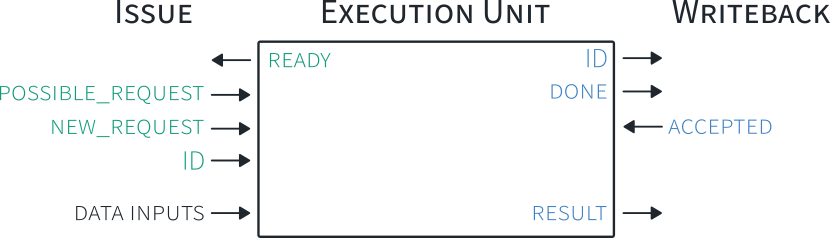
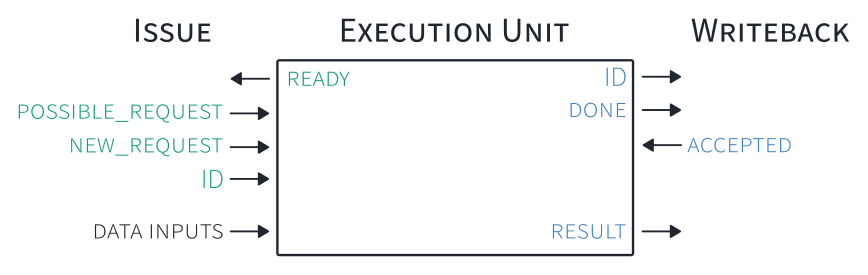
Add overview and unit documentation

Changed region(s): [[0.0, 0.0, 0.9337, 1.0], [0.7831, 0.0, 1.0, 0.1765], [0.1205, 0.0, 0.241, 0.1765]]

diff --git a/docs/custom-unit-support.md b/docs/custom-unit-support.md
@@ -1,0 +1,190 @@
+# Adding a Custom Unit
+All logic needed to add a your first custom unit is contained within:
+ - cva5/core/custom_unit.sv
+
+This includes decode, issue, and writeback support.  Additionally, the unit is already connected, and can be enabled by setting the bit:
+```
+INCLUDE_CUSTOM : 1
+```
+in the top-level config struct.  For this competition, the config structs are in `nexys_sim.sv` and `nexys_wrapper.sv` for simulation and hardware respectively.
+
+## custom_unit.sv
+The example unit within custom_unit.sv is complete, minimal example of how a custom unit can be implemented.  It has the following properties:
+ - It matches one instruction pattern at decode
+   - it uses rs1, rs2, and r2
+ - It has a latency of 2 cycles
+ - It has a throughput of 1 instruction every-other cycle
+ - It performs an add of rs1 and rs2 and writes the result to the register-file
+
+## Decode support
+The following snippet from `custom_unit.sv`, highlights how decode support is provided within CVA5.  Decode support is distributed among the execution units with each unit being responsible for determining if it is needed.  Additionally, each unit provides whether that instruction needs any register sources or whether it writes to the register-file.
+```
+    ////////////////////////////////////////////////////
+    //Decode
+    assign instruction = decode_stage.instruction;
+
+    //The following signals should be asserted when the decoded instruction
+    //is handled by this execution unit.
+    assign unit_needed = decode_stage.instruction inside {CUSTOM};
+    always_comb begin
+        uses_rs = '0;
+        uses_rs[RS1] = decode_stage.instruction inside {CUSTOM};
+        uses_rs[RS2] = decode_stage.instruction inside {CUSTOM};
+        uses_rd = decode_stage.instruction inside {CUSTOM};
+    end
+```
+To integrate with the decode logic, a bitvector describing the required bit values for your instruction must be used for the `unit_needed` signal.  You can look at `opcodes.sv` to see how these are defined for the existing RISC-V ISA.  As an example, the `SUB` and `CUSTOM` instruction are shown below:
+```
+    localparam [31:0] SUB = 32'b0100000??????????000?????0110011;
+    localparam [31:0] CUSTOM = 32'b?????????????????????????1111011;
+```
+
+## Unit Issue and Writeback interfaces
+The diagram below illustrates the issue and writeback interfaces for execution units within CVA5.
+![unit-interface](unit-interface.webp)
+
+Simple handshaking is used for both interfaces to control the flow of instructions.  The signal dependencies are as follows:
+ - `ready` before  `new_request`
+ - `done` before `ack`
+
+with the `new_request` and `ack` signals being driven by combinational logic.  It is permissable for the `ready` signal to depend on `ack` (see the multipler unit as an example of this).
+
+### Ordering
+There are no requirements on instruction ordering within units (or between units).  The only requirement is that the ID is propagated along with its instruction results from issue to writeback.  The unit can send results to writeback in any order it wishes.  If the unit has internal state that is kept between instructions, please refer to the [Retire support and internal state](#sec-retire) section in this document.
+
+### Issue Interface
+There is only one output for the issue interface from the execution unit's perspective.  That is the `ready` signal.  When `ready` is one, it indicates that the unit can accept a new request on that cycle.
+
+When a unit receives a `new_request` it also receives a corresponding `ID` for that instruction which must be propagated along with that instruction's results to the writeback stage.
+
+The `possible_request` signal is an optional extra signal used for routing optimization and can be ignored unless you are seeing timing problems with the `new_request` signal.
+
+### Writeback Interface
+When an instruction's result has been computed, the unit should assert the `done` signal along with the `result` and the corresponding `ID` of the instruction.  These values should all be held until the writeback stage asserts the `ack` signal.  The response can be, and often is, in the same cycle in which `done` is asserted.
+
+## Signal list
+### Issue
+ - `ready` 1 when a unit can accept the instruction in the issue stage on this cycle, 0 otherwise.  Can include a combinational path including the `ack` signal from writeback.
+ - `possible_request` **(Optional, exists for routing optimization)** indicates that a request exists in the issue stage that uses this unit, but may not be issued due to operand dependencies or a branch flush.  As this signal is determined earlier in a cycle it is useful for enables on memory data-paths to reduce fanout on the `new_request` signal.
+  - `ID` The instruction's global ID.  This value must be propagated with the instruction within the execution unit and be set alongside the result at the writeback interface.
+
+### Non-interface Issue signals
+ - `issue_stage_ready` the control signal for registering values entering the issue stage from decode
+ - `issue_stage` struct containing various registered values from the decode stage.  You can use this to prevent duplicating common logic between units.  (Definition in `cva5_types.sv`)
+ - `rf` the issue stage register-file data
+
+### Writeback
+ - `done` asserted when an instruction result has been computed and said result is being driven on the `result` signal along with its corresponding `ID`.  `done` must be held, potentially across multiple cycles, until the `ack` signal is asserted.
+ - `Result` the data to be written to the register-file
+ - `ID` the corresponding ID for the outputed result
+ - `ack` asserted in response to `done`. Can be on the same cycle that `done` is asserted, but can come arbitrarily later.
+
+# Design considerations
+To aid you in the design of your custom unit(s) here are a few considerations:
+ - Use as little logic as possible to determine your `ready` and `done` signals.  Ideally, register them if it doesn't impact your throughput.  As these signals are part of the global control logic, their impact on clock frequency can be large if too complex.  In general, one or two levels of LUTs is acceptable.
+ - The processor can only have at most MAX_IDS instructions post-issue at any given time.  As such, if you can provide buffering for that amount of instructions, you can tie the `ready` signal to 1 (i.e. have an input FIFO of depth MAX_IDS).
+ - In the issue stage, the register-file data path originates from registers and passes through 1 level of LUTs before arriving at the execution units.  As such, you can easily fit 5-6 additional stages of LUTs or an adder before you register the data inside your unit.
+ - The writeback path consists of a priority encoder for the done signals that then muxes the data paths.  A LUTRAM lookup is performed with the muxed ID to obtain the register-file address and the path ends at the register-file (LUTRAM write).  This is why it's important that the `done` signals are available as early as possible in the writeback stage.  However, this means that there is some flexibility in including logic in the data path for the writeback stage.  A few levels of LUTs or an adder should again be fine.
+  - As you add more writeback units, the above constraints will become tighter as the muxes increase in size and there is additional routing delay.  If you intend to add a larger number of writeback units, consider adding an additional writeback port.
+  - The first connected unit for any writeback port always has the highest priority.  Thus, it can ignore the `ack` signal and assume that its output will be accepted any time it asserts `done`.  If you have a unit that would be made more complex by having to stall (eg. data cache), then consider placing this unit first within its writeback group.
+
+
+# Retire support and internal state {#sec-retire}
+See [cva5-overview](cva5-overview.md) for an introduction to the retire stage of CVA5.  If your unit is going to have internal state that instructions modify and then depend on (eg. an accumulation register that is kept between instructions), any change to that state must only be made architecturally visible once an instruction retires.
+
+If maintaining speculative state is too complex for your unit, to maintain correct behaviour, you will need to **not** accept new instructions that depend on internal state until any instruction that modifies your internal state has retired.
+
+By default, up-to two instructions can retire per-cycle, one of which can be a register-file write. The retire logic is contained in the `instruction_metadata_and_id_management.sv` file.  It outputs the following useful signals:
+```
+    retire_packet_t retire;
+    retire_packet_t store_retire;
+    id_t retire_ids [RETIRE_PORTS]
+    logic retire_port_valid [RETIRE_PORTS]
+```
+ - `retire` provides: ID and valid for register-file writes
+ - `store_retire` provides: ID and valid for stores
+ - `retire_ids` are the two IDs that may be retiring this cycle
+ - `retire_port_valid` indicates which ports (if any) are retiring an ID this cycle
+
+You will need to use `retire_ids` and `retire_port_valid` in your design to finalize any changes to architecturally visible internal state.
+ 
+Given that supporting more than one instruction retiring per-cycle can be complicated and expensive, the retire logic can be modified to restrict your instruction type to only one per cycle. (As has already been done for register file writes and stores.)  If this is the approach you would like to follow, please feel free to reach out for assistance in making this kind of change.
+
+
+
+# Adding additional custom units
+To add additional custom units, two files must be modified:
+ - cva5_config.sv
+ - cva5.sv
+In the config file, you will need to increase the `unit_id_param_t` size, and, optionally, provide config options for your unit.
+
+In `cva5.sv,` you must instantiate your unit, select which writeback port it will connect to and update the following unit ID logic:
+```
+    ////////////////////////////////////////////////////
+    //Unit ID Assignment
+    //Generate Issue IDs based on configuration options
+    //Then assigned to a struct for ease in passing to sub modules
+
+    //Units with writeback
+    localparam int unsigned ALU_UNIT_ID = 32'd0;
+    localparam int unsigned LS_UNIT_ID = 32'd1;
+    localparam int unsigned CSR_UNIT_ID = LS_UNIT_ID + int'(CONFIG.INCLUDE_CSRS);
+    localparam int unsigned MUL_UNIT_ID = CSR_UNIT_ID + int'(CONFIG.INCLUDE_MUL);
+    localparam int unsigned DIV_UNIT_ID = MUL_UNIT_ID + int'(CONFIG.INCLUDE_DIV);
+    localparam int unsigned CUSTOM_UNIT_ID = DIV_UNIT_ID + int'(CONFIG.INCLUDE_CUSTOM);
+    //Non-writeback units
+    localparam int unsigned BRANCH_UNIT_ID = CUSTOM_UNIT_ID + 1;
+    localparam int unsigned IEC_UNIT_ID = BRANCH_UNIT_ID + 1;
+
+    //Total number of units
+    localparam int unsigned NUM_UNITS = IEC_UNIT_ID + 1; 
+
+    localparam unit_id_param_t UNIT_IDS = '{
+        ALU : ALU_UNIT_ID,
+        LS : LS_UNIT_ID,
+        CSR : CSR_UNIT_ID,
+        MUL : MUL_UNIT_ID,
+        DIV : DIV_UNIT_ID,
+        CUSTOM : CUSTOM_UNIT_ID,
+        BR : BRANCH_UNIT_ID,
+        IEC : IEC_UNIT_ID
+    };
+```
+All units that write to the register file should be added before those that do not (such as the branch and Interrupt and Exception Control).
+
+# Adding additional register-file read-ports
+By default, two register source ports are provided.  To increase the number of read ports, the following code will need to be modified:
+
+---
+Change to desired number of read ports and define RS3+.
+
+**cva5_config.sv**
+```
+    localparam REGFILE_READ_PORTS = 2; //min 2, for RS1 and RS2. (Non-powers of two supported)
+    typedef enum bit {
+        RS1 = 0,
+        RS2 = 1
+    } rs1_index_t;
+```
+---
+Inside of the main decode logic assign address bits to your additional register ports.
+**decode_and_issue.sv**
+```
+    always_comb begin
+        decode_rs_addr = '{default: '0};
+        decode_rs_addr[RS1] = decode_instruction.rs1_addr;
+        decode_rs_addr[RS2] = decode_instruction.rs2_addr;
+    end
+```
+
+
+**custom_unit.sv**
+Add the conditions under which your instruction needs RS3+
+```
+    always_comb begin
+        uses_rs = '0;
+        uses_rs[RS1] = decode_stage.instruction inside {CUSTOM};
+        uses_rs[RS2] = decode_stage.instruction inside {CUSTOM};
+        uses_rd = decode_stage.instruction inside {CUSTOM};
+    end
+```

diff --git a/README.md b/README.md
@@ -29,6 +29,11 @@ The remainder of this document contains instructions on
  - Running benchmarks on the board
  - Running benchmarks in simulation (with Verilator)
 
+For an overview of the CVA5 processor and details on adding custom instructions units please see:
+ - [CVA5 overview](docs/cva5-overview.md)
+ - [Custom unit support](docs/custom-unit-support.md)
+
+in the docs folder.
 
 # Generating the Hardware System
 Two tcl scripts are provided to generate the baseline system for the competition, located in: **examples/nexys/scripts**
